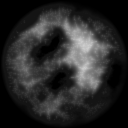
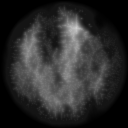
River and forest generation, early look into automatic blending of tiles

diff --git a/map.py b/map.py
@@ -5,8 +5,11 @@ from noiselib import fBm, simplex_noise2
 from noiselib.modules.main import RescaleNoise
 from noiselib.modules.surfaces import PixelArray, RGBLerpNoise
 
-import pygame
+import sys
+import math
 import random
+
+import pygame
 
 import config
 import generators
@@ -112,6 +115,10 @@ class Map:
         self.max_pos = (0,0)
         self.visible_tiles = []
 
+        # map generation variables
+        self.rainfall = 2
+        self.sea_level = 2
+
         # Sets the map to the given dimensions
         self.set_size(dim)
 
@@ -130,14 +137,12 @@ class Map:
         self.layer_0 = []
         self.layer_1 = []
 
-        # A list of all the landmasses
+        # A list of all the landmasses, and the playable landmasses
         self.islands = []
+        self.playable_islands = []
 
         # Generate an island
         self.gen_island()
-
-        # Define the islands
-        self.define_islands()
 
     def set_size(self, size):
         self.size = size
@@ -196,6 +201,15 @@ class Map:
         surface = generators.MainGenerator().generateIsland(7)
         self.gen_from_image(surface, surface.get_size())
 
+
+
+        # Define the islands
+        self.define_islands()
+        # Generate rivers
+        self.gen_rivers(surface)
+        # Generate forests
+        self.gen_forests()
+
     def gen_from_image(self, surface, max_size):
         """"Generates a map from an image. All generators will generate an image which will then be passed into
         This function to generate the playable map."""
@@ -245,6 +259,9 @@ class Map:
 
     def define_islands(self):
         """Explores a map and builds an array of islands it discovers."""
+
+        # Change the recursion limit to permit the scanning of the map
+        sys.setrecursionlimit(20000)
         islands = []
         visited_tiles = []
         for y in range(0, self.size[1]):
@@ -255,38 +272,223 @@ class Map:
                     island_tiles = []
                     self.find_island_boundaries(visited_tiles, island_tiles, (x,y))
                     islands.append(island_tiles)
-        self.islands = islands
+        self.islands = sorted(islands, key=len)
+        self.islands.reverse()
+        self.playable_islands = [x for x in self.islands if len(x) > 50]
+
+        # Return the recursion limit to normal value
+        sys.setrecursionlimit(1000)
 
     def find_island_boundaries(self, visited_tiles, island_tiles, loc):
         """Walks around the map exploring an island to discover its boundaries."""
         x,y = loc
         # Quit if we've already logged this tile
-        if loc in island_tiles or loc in visited_tiles:
+        if loc in visited_tiles:
+            return
+        visited_tiles.append(loc)
+
+        # Quit if the tile is water or ice
+        if self.get(loc)['layer_0'] in self.impassable:
             return
 
-        visited_tiles.append(loc)
+        # Quit if we've already logged this tile in this current island (failsafe)
+        if loc in island_tiles:
+            return
         island_tiles.append(loc)
 
         # Spread out recursively and find all the tiles that we can
         if x > 0:
-            if self.get((x-1,y))['layer_0'] not in self.impassable:
+            if self.get((x-1,y))['layer_0'] not in self.impassable and (x-1,y) not in visited_tiles:
                 self.find_island_boundaries(visited_tiles, island_tiles, (x-1,y))
         if x < self.size[0]:
-            if self.get((x+1, y))['layer_0'] not in self.impassable:
+            if self.get((x+1, y))['layer_0'] not in self.impassable and (x+1,y) not in visited_tiles:
                 self.find_island_boundaries(visited_tiles, island_tiles, (x+1,y))
 
         if y > 0:
-            if self.get((x,y-1))['layer_0'] not in self.impassable:
+            if self.get((x,y-1))['layer_0'] not in self.impassable and (x,y-1) not in visited_tiles:
                 self.find_island_boundaries(visited_tiles, island_tiles, (x,y-1))
         if y < self.size[0]:
-            if self.get((x, y+1))['layer_0'] not in self.impassable:
+            if self.get((x, y+1))['layer_0'] not in self.impassable and (x,y+1) not in visited_tiles:
                 self.find_island_boundaries(visited_tiles, island_tiles, (x,y+1))
 
-    def generateForest(self, map):
-        pass
+    def gen_rivers(self, surface):
+        """Generates rivers on the map, using the surface heights as a basis."""
+        if len(self.islands) == 0:
+            self.define_islands()
 
-    def growTrees(self, map, direction):
-        pass
+        for island in self.islands:
+            if len(island) < 40:
+                continue
+
+            min_rivers = 1
+            if len(island) > ((self.size[0] + self.size[1])/2) ** 1.15:
+                min_rivers = 2
+
+            # calculate a maximum number of forests
+            rivers_count = min(min_rivers + 3, int(math.sqrt(len(island)) / 2))
+            rivers_count = random.randint(min_rivers, rivers_count)
+
+            height_values = [{'value': self.averageRGB(surface.get_at(x)), 'loc': x} for x in island]
+            height_values = sorted(height_values,key=lambda x: x['value'])
+
+            while rivers_count > 0:
+                start_point = height_values[random.randint(int(len(height_values) * 0.7), int(len(height_values) * 0.95))]['loc']
+                river_set = []
+                if self.draw_river(surface, start_point, river_set):
+                    rivers_count -= 1
+                    for loc in river_set:
+                        self.set(loc, 'layer_1', 'RIVER')
+                else:
+                    river_set = []
+
+    def draw_river(self, surface, loc, river_set):
+
+        # Get the location and ensure it's within boundaries
+        x,y = loc
+        if x < 0 or y < 0 or x > self.size[0] - 1 or y > self.size[1] - 1:
+            return False
+
+        if self.get(loc)['layer_1'] == 'RIVER' or loc in river_set:
+            return False
+
+        river_set.append(loc)
+
+        current_val = self.averageRGB(surface.get_at(loc))
+
+        possible_dirs = []
+
+        if y > 0 and self.averageRGB(surface.get_at((x,y-1))) <= current_val:
+            possible_dirs.append('up')
+        if y < self.size[1] - 1 and self.averageRGB(surface.get_at((x,y+1))) <= current_val:
+            possible_dirs.append('down')
+        if x > 0 and self.averageRGB(surface.get_at((x-1,y))) <= current_val:
+            possible_dirs.append('left')
+        if x < self.size[0] - 1 and self.averageRGB(surface.get_at((x+1,y))) <= current_val:
+            possible_dirs.append('right')
+
+
+        if len(possible_dirs) == 0:
+            return False
+
+        # % chance of river splitting into multiple directions
+        if random.randint(1,4) < 4:
+            possible_dirs = [possible_dirs[random.randint(0,len(possible_dirs)-1)]]
+
+        for dir in possible_dirs:
+            if dir == 'up':
+                loc = (x, y-1)
+            elif dir == 'down':
+                loc = (x, y+1)
+            elif dir == 'left':
+                loc = (x-1, y)
+            elif dir == 'right':
+                loc = (x+1, y)
+
+            if self.get(loc)['layer_0'] == 'SHORE' or self.get(loc)['layer_0'] == 'OCEAN':
+
+                # generate some river deltas if possible
+                if x > 0 and self.get((x-1,y))['layer_0'] not in self.impassable:
+                    river_set.append((x-1, y))
+                if x < self.size[0] - 1 and self.get((x+1,y))['layer_0'] not in self.impassable:
+                    river_set.append((x+1, y))
+                if y > 0 and self.get((x,y-1))['layer_0'] not in self.impassable:
+                    river_set.append((x,y-1))
+                if y < self.size[1] - 1 and self.get((x,y+1))['layer_0'] not in self.impassable:
+                    river_set.append((x,y+1))
+
+                # success!
+                return True
+
+            return self.draw_river(surface, loc, river_set)
+
+    def gen_forests(self):
+        """Generates forests on the larger islands of the map."""
+        if len(self.islands) == 0:
+            self.define_islands()
+
+        for island in self.islands:
+            if len(island) < 30:
+                continue
+
+            min_forests = 0
+            # If it's a particularly big island relative to the map size, we should need a few forests
+            if len(island) > ((self.size[0] + self.size[1])/2) ** 1.15:
+                min_forests = 3
+
+            # calculate a maximum number of forests
+            forest_count = max(min_forests + 2, int(math.sqrt(len(island)) / 1.5))
+
+            if forest_count < min_forests:
+                forest_count = min_forests
+            else:
+                forest_count = random.randint(min_forests,forest_count)
+
+            counted_tiles = []
+            while forest_count > 0:
+                # pick a random start point on the island
+                loc = island[random.randint(0,len(island)-1)]
+
+                # keep a list of tiles we've visited
+                if loc in counted_tiles:
+                    continue
+                # forests can only start on grass
+                if self.get(loc)['layer_0'] != 'GRASS':
+                    counted_tiles.append(loc)
+                    continue
+                # if counted every tile on the island and there's no grass, exit
+                if len(counted_tiles) >= len(island):
+                    break
+
+                self.grow_trees(loc, 'up', random.randint(6,12))
+                self.grow_trees(loc, 'down', random.randint(6,12))
+                self.grow_trees(loc, 'left', random.randint(6,12))
+                self.grow_trees(loc, 'right', random.randint(6,12))
+                forest_count -= 1
+
+
+
+    def grow_trees(self, loc, direction, weight):
+        """Part of the forest generation. Grows a branch of a forest in a given direction."""
+
+        # Get the location and ensure it's within boundaries
+        x,y = loc
+        if x < 0 or y < 0 or x > self.size[0] - 1 or y > self.size[1] - 1:
+            return
+
+        # trees should only grow on grass, not sand or other land types
+        tile = self.get(loc)
+        if tile['layer_0'] != 'GRASS' or tile['layer_1'] not in ['UI_EMPTY', 'TREES']:
+            return
+
+        self.set(loc, 'layer_1', 'TREES')
+
+        if weight == 1:
+            return
+
+        new_direction = direction
+        # prefer for the branches to spread in the same direction, but give it a small chance of making a 90deg turn
+        # in either direction
+        for i in range(1,random.randint(1,3)):
+            if random.randint(1,3) > 2:
+                if direction == 'up':
+                    new_direction = ['left','right'][random.randint(0,1)]
+                elif direction == 'down':
+                    new_direction = ['left','right'][random.randint(0,1)]
+                elif direction == 'left':
+                    new_direction = ['up','down'][random.randint(0,1)]
+                elif direction == 'right':
+                    new_direction = ['up','down'][random.randint(0,1)]
+
+            # recursively call the grow function
+            if new_direction == 'up':
+                self.grow_trees((loc[0], loc[1]-1), new_direction, weight-1)
+            if new_direction == 'down':
+                self.grow_trees((loc[0], loc[1]+1), new_direction, weight-1)
+            if new_direction == 'left':
+                self.grow_trees((loc[0]-1, loc[1]), new_direction, weight-1)
+            if new_direction == 'right':
+                self.grow_trees((loc[0]+1, loc[1]), new_direction, weight-1)
+
 
     def get(self, loc):
         """Returns the tiles available at the given location loc"""
@@ -298,6 +500,23 @@ class Map:
                 'layer_0': self.layer_0[y][x],
                 'layer_1': self.layer_1[y][x]
             }
+
+    def set(self, loc, layer, tile):
+        """Sets the tile to the given value at location loc, on the layer specified"""
+
+        # Get the location and ensure it's within boundaries
+        x, y = loc
+        if x < 0 or y < 0 or x > self.size[0] - 1 or y > self.size[1] - 1 or layer not in ['layer_0', 'layer_1']:
+            return
+        else:
+            if layer == 'layer_0':
+                self.layer_0[loc[1]][loc[0]] = tile
+            elif layer == 'layer_1':
+                self.layer_1[loc[1]][loc[0]] = tile
+
+    def averageRGB(self, color):
+        """Averages the RGB values into a grayscale color."""
+        return int((color.r + color.g + color.b) / 3)
 
     def draw(self, screen, offset):
         """Draws the visible map on the input screen with a given offset."""

diff --git a/ui.py b/ui.py
@@ -25,7 +25,6 @@ class MenuScreen:
 
 
         self.new_button = TitleButton("New Game", None, button_bg)
-        self.load_button = TitleButton("Load Save", None, button_bg)
         self.exit_button = TitleButton("Quit Nations", None, button_bg)
 
         self.callback = callback
@@ -70,6 +69,7 @@ class MenuScreen:
         print("closing")
 
 class TitleButton:
+    """Class to represent a button on the title screen"""
     def __init__(self, text, action, button_bg):
         self.action = action
         self.text = text
@@ -87,7 +87,7 @@ class TitleButton:
             screen.blit(label, (offsetX + (self.width / 2 - label.get_size()[0] /2), posY + 8))
 
 class GameScreen:
-
+    """Class to represent the in-game screen once the player has initialized the game"""
     def __init__(self, screen, callback):
         # set up UI
         self.screen = screen
